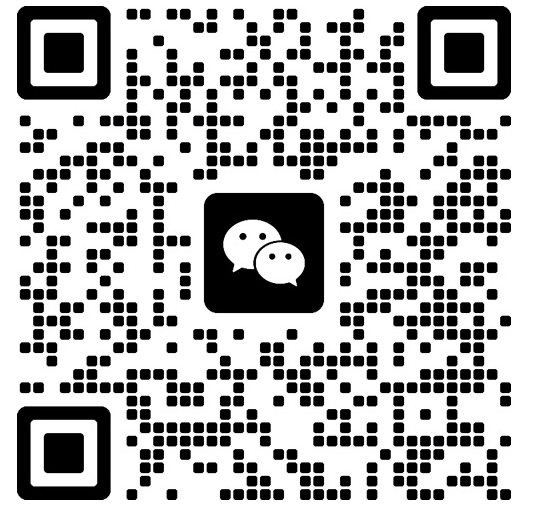
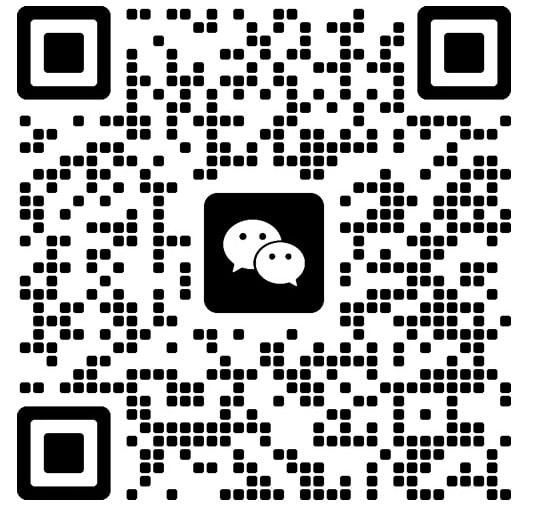
update image

diff --git a/Source/introduction.html b/Source/introduction.html
@@ -1,3 +1,4 @@
+
 <!DOCTYPE html>
 <html lang="zh">
 <head>
@@ -54,13 +55,12 @@
         img {
             max-width: 100%; /* 确保图片自适应屏幕 */
             height: auto; /* 保持比例 */
-            margin: 20px 0; /* 图片上下间距 */
         }
     </style>
 </head>
 <body>
-    <!-- 添加图片 -->
-    <img src="../image/introduction-image.png" alt="介绍图片">    
+    <h1>前言</h1>
+    
     <p><strong>大家好，这里是软嵌物联集！</strong></p>
     <p><strong>随着嵌软行业的热潮，越来越多的小伙伴关注嵌入式这个行业。</strong></p>
     <p><strong>我呢也是第一次做网页分享自己的知识成果，要是有不足之处还请大家见谅。</strong></p>
@@ -82,7 +82,7 @@
     <h2>作者简介</h2>
     <p>大家好我是软嵌物联集的作者，我是Dax，现在在外企工作，bg本硕双9。</p>
     <p>有什么其他问题可以添加我的微信，添加备注添加来源:网页。</p>
-    <img src="../image/wx.jpg" alt="微信二维码" style="max-width: 20%; height: auto;">
+    <img src="../image/wx.jpg" alt="微信二维码" style="max-width: 300px; height: auto;">
     
     <!-- 更新时间 -->
     <div class="update-time">更新时间：2024年11月24日</div>
